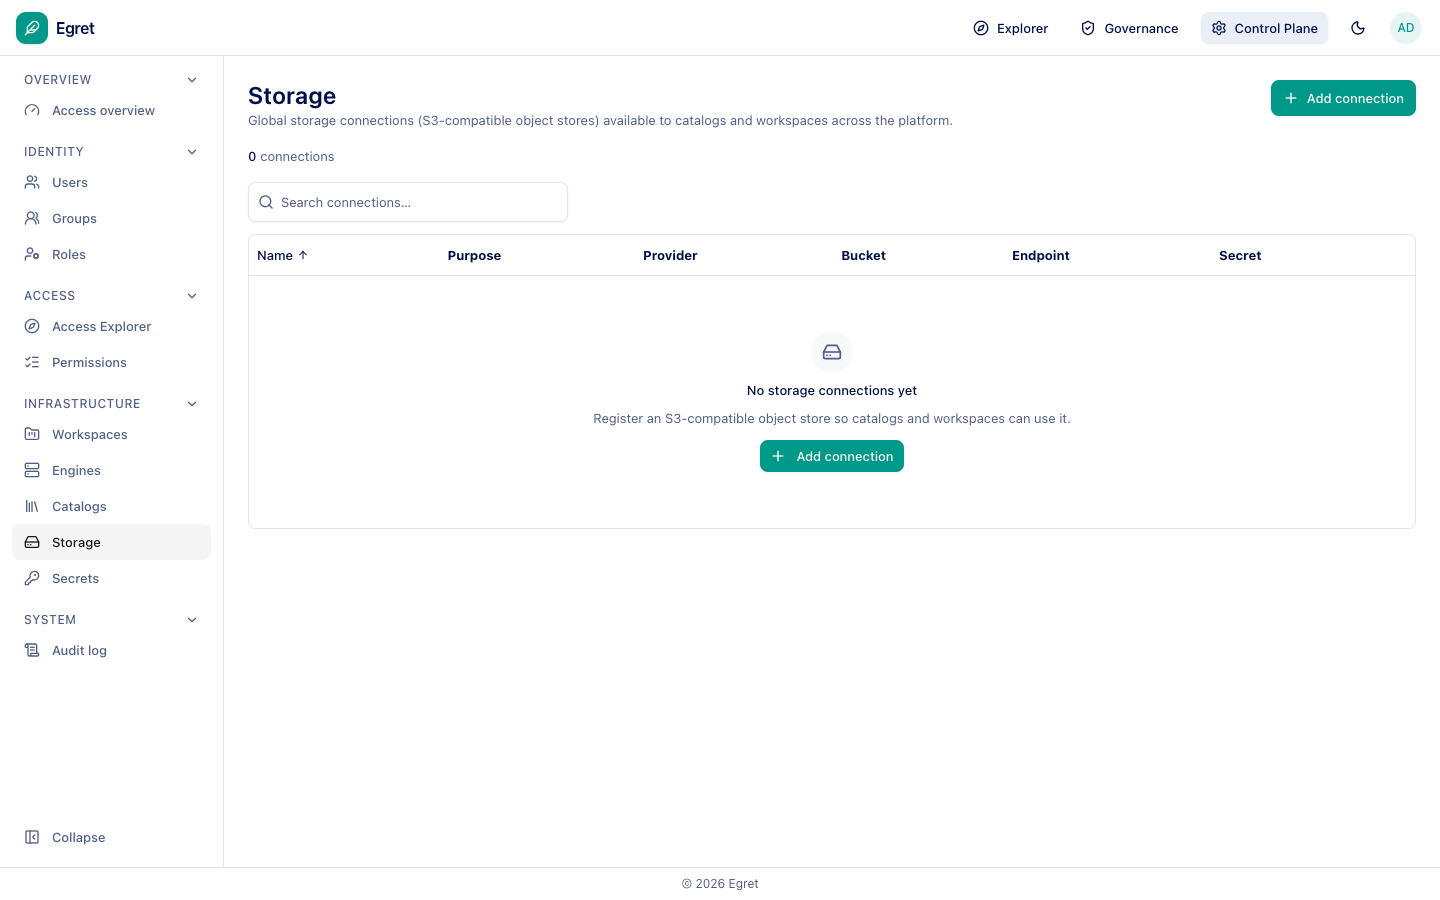
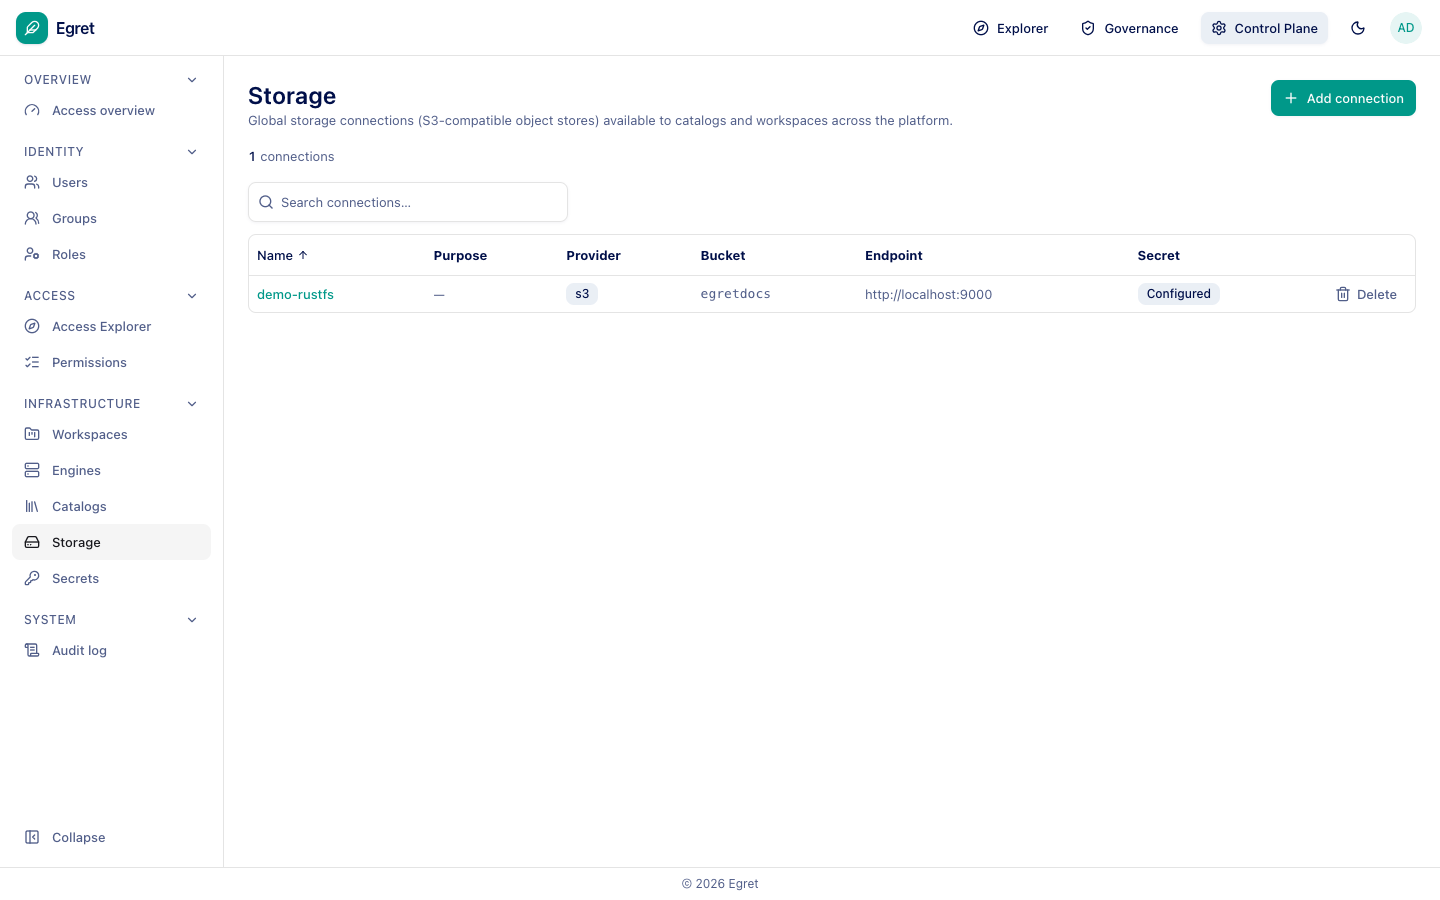
docs: Data governance, Control plane and Deploy & operate pages (batch 3); more known issues

diff --git a/platform/known-issues.md b/platform/known-issues.md
@@ -26,3 +26,12 @@ and missing pieces. Entries are **recorded, not fixed**; they feed the product r
 | KI-012 | Workspace settings | UX | S3 | The Notifications page does not follow the layout of the other settings tabs: the heading is offset, and Encryption is an unstyled native select. |
 | KI-013 | Workflows | UX | S1 | With the default config the workflow worker is **off**. *Run* succeeds and the execution sits in *Running* indefinitely (one waited 53 s until the worker was enabled). Only the Triggers page warns; Run, Flow and Executions give no hint. |
 | KI-014 | Workflows | UX | S3 | A new flow shows *Version —* in its header, and *Run* says it runs "the saved draft"; it is unclear what a version is until **Create version** is pressed. |
+| KI-015 | Governance | Missing | S2 | **Data Lineage** is in the sidebar but is a placeholder page with no functionality. |
+| KI-016 | Control Plane | Defect | S3 | `/control-plane/config` renders a completely blank page inside the shell. |
+| KI-017 | Audit log | UX | S2 | Every page view writes `*:read allow` rows, so the audit log is dominated by routine reads and hides grant changes. Offer a default filter or separate reads from changes. |
+| KI-018 | Access overview | UX | S3 | *Recent changes* identifies the actor by an id prefix (`by 6d60b4c4`) instead of a name. |
+| KI-019 | Roles | Consistency | S3 | Control Plane → Roles lists four workspace roles (including `data_api_invoker`); Workspace settings → Roles & permissions lists three. Verify whether the fourth is hidden on purpose. |
+| KI-020 | People & groups | UX | S3 | Every user shows *No username yet*, even users who signed in through SSO. |
+| KI-021 | Control Plane | Defect? | S3 | verify: a group (`platform-admins`) mapped from the identity provider gives its member no platform role (Users shows no role for `admin-sso`). Check whether group-to-role mapping is expected to be configured separately. |
+| KI-022 | Engines | Limitation | S2 | Engine provisioning (**Add engine**) needs Kubernetes. On a Docker-only setup the only way to attach an engine is **Register external engine**, and the UI does not say so. |
+

diff --git a/platform/control-plane/access-control.md b/platform/control-plane/access-control.md
@@ -4,8 +4,33 @@ sidebar_position: 6
 
 # Access control
 
-Platform roles and who can do what.
+Platform administration of identity and permissions lives under **Overview**, **Identity** and **Access** in the Control Plane sidebar.
 
-:::note Draft
-This page is a skeleton and will be written against a running instance, with screenshots.
-:::
+## Access overview
+
+![Access overview](/img/platform/control-plane-access-overview.png)
+
+Who can access what, through which layer, plus the posture issues worth your attention (for example *roles with no assignees* and the share of users who are platform admins). **How access works** summarises the layers:
+
+1. **Identity**: users and groups, synced from OIDC.
+2. **Roles & permissions**: RBAC, which actions each role grants.
+3. **Object grants**: per-object access (Cedar), who can open a dataset, chart or dashboard.
+4. **Data plane**: column masking and row filters by tag (Ranger), enforced in the query engine.
+
+## Users, groups and roles
+
+![Users](/img/platform/control-plane-users.png)
+
+**Users** lists accounts with their provider (*local* or *oidc*), status, roles and group count. **Groups** lists groups synced from your identity provider. **Roles**:
+
+![Roles](/img/platform/control-plane-roles.png)
+
+*Platform roles* apply across all of Egret; *workspace roles* apply inside one workspace and are assigned per workspace on its Members page. Built-in roles are `platform_admin`, `data_steward`, `ws_admin`, `ws_editor` and `ws_viewer`; **New role** and **Tree view** are available.
+
+## Access Explorer and Permissions
+
+![Access Explorer](/img/platform/control-plane-access-explorer.png)
+
+The **Access Explorer** answers two questions with full provenance: what can this user or group reach, and who can reach this object. **Permissions** is the full catalog of platform permissions (64 across 18 areas) and how many roles each is granted to; change what a role grants on the Roles page.
+
+![Permissions](/img/platform/control-plane-permissions.png)

diff --git a/platform/control-plane/query-engines.md b/platform/control-plane/query-engines.md
@@ -4,8 +4,25 @@ sidebar_position: 2
 
 # Query engines
 
-Provision and register engines.
+**Control Plane → Engines** lists the query engines of the platform in tabs for **Trino**, **StarRocks** and **RisingWave** (RisingWave arrives in a later phase).
 
-:::note Draft
-This page is a skeleton and will be written against a running instance, with screenshots.
-:::
+![Engines](/img/platform/control-plane-engines.png)
+
+There are two ways to add an engine:
+
+- **Add engine** provisions a Trino or StarRocks cluster against a catalog warehouse and monitors its health. This needs a Kubernetes cluster; without one the platform logs *kubernetes unavailable; engine provisioning disabled*.
+- **Register external engine** records a cluster you run yourself.
+
+## Register an external engine
+
+![Register external engine](/img/platform/control-plane-engine-register.png)
+
+Egret does not provision, restart or monitor a registered engine. It holds the record so that a policy profile can be bound to the engine and you can read the Ranger plugin configuration to install on it.
+
+| Field | Meaning |
+|---|---|
+| **Name** | Lower-case letters, digits and hyphens, up to 63 characters. |
+| **Engine type** | Trino or StarRocks. |
+| **Host**, **Port** | A host name or IP address (no scheme, port or path) and the HTTP port. |
+| **Plugin version** | The Ranger plugin version. Egret proves migrations and explains access only for Trino with plugin 2.5.0 or 2.8.0 and StarRocks with 2.8.0 or 2.9.0; another version is recorded as you declare it and those features refuse. |
+| **Policy profile** | Bind a profile now, or later from the engine's Settings tab. A profile can belong to one engine. |

diff --git a/platform/deploy-operate/configuration.md b/platform/deploy-operate/configuration.md
@@ -4,8 +4,18 @@ sidebar_position: 3
 
 # Configuration
 
-How configuration is loaded and the keys you will change first.
+Configuration comes from `egret.toml` and from environment variables named `EGRET_<SECTION>__<KEY>` (two underscores between section and key). These are the ones you meet first:
 
-:::note Draft
-This page is a skeleton and will be written against a running instance, with screenshots.
-:::
+| Setting | Meaning |
+|---|---|
+| `EGRET_DATABASE__URL` | PostgreSQL connection string. |
+| `EGRET_SERVER__PORT` | HTTP port (default 8080). |
+| `[secrets] master_key` | Base64 key (at least 32 bytes) that encrypts stored credentials. Without it, registering a database *with a secret* fails. |
+| `[storage]` | Object-store `bucket`, `access_key`, `secret_key`. |
+| `[catalog]` `enabled`, `auth_token` | Enables the embedded Iceberg catalog. |
+| `EGRET_OIDC__ENABLED`, `ISSUER_URL`, `CLIENT_ID`, `CLIENT_SECRET`, `REDIRECT_URL`, `GROUPS_CLAIM` | Single sign-on. The local administrator stays as a *break-glass* login. |
+| `EGRET_SECURITY__SECRET_KEY` | Base64 key (at least 64 bytes) that encrypts the OIDC state cookie. **The value in `.env.example` is public; generate your own** (`head -c 64 /dev/urandom \| base64`). |
+| `EGRET_RANGER__ENABLED`, `AUTH_TOKEN` | Turns on Ranger policy administration. |
+| `EGRET_WORKFLOW__WORKER_ENABLED`, `SCHEDULER_ENABLED` | Workflow worker and trigger scheduler. **Both default to off.** |
+
+The full list is in the [configuration keys reference](../reference/configuration-keys).

diff --git a/platform/deploy-operate/troubleshooting.md b/platform/deploy-operate/troubleshooting.md
@@ -4,8 +4,11 @@ sidebar_position: 5
 
 # Troubleshooting
 
-Common failures and how to diagnose them.
-
-:::note Draft
-This page is a skeleton and will be written against a running instance, with screenshots.
-:::
+| Symptom | Cause and fix |
+|---|---|
+| *502 Bad Gateway* when creating a dataset or testing a database on Trino | Trino answered HTTP 406. Egret sends `X-Forwarded-Proto`; set `http-server.process-forwarded=true` on Trino. |
+| *429 Too Many Requests* at sign-in | The local sign-in limit is 5 attempts per 5 minutes per address and email; rejected attempts keep the window open. Wait, or restart the server (the limiter is in memory) in a throwaway instance. |
+| A workflow execution stays in *Running* | The workflow worker is off by default. Set `EGRET_WORKFLOW__WORKER_ENABLED=true` (and `EGRET_WORKFLOW__SCHEDULER_ENABLED=true` for triggers). |
+| *kubernetes unavailable; engine provisioning disabled* in the log | There is no Kubernetes cluster. **Register external engine** still works; **Add engine** does not. |
+| Registering a database with a secret fails | `[secrets] master_key` is not set. |
+| `/control-plane/config` renders a blank page | Known issue; the page is not linked from the UI. |

diff --git a/platform/deploy-operate/local.md b/platform/deploy-operate/local.md
@@ -4,8 +4,19 @@ sidebar_position: 1
 
 # Local (Docker Compose)
 
-Run the platform and its dependencies on one machine.
+`just up` starts the development dependencies from `deploy/docker-compose.dev.yml`: PostgreSQL, an S3-compatible object store (RustFS), Valkey, Trino, StarRocks and Keycloak.
 
-:::note Draft
-This page is a skeleton and will be written against a running instance, with screenshots.
+```bash
+cp .env.example .env
+just up
+just serve
+```
+
+`just serve` runs migrations and starts the platform on port 8080; the frontend dev server (`npm run dev` in `frontend/`) proxies `/api` to it.
+
+:::tip Isolated instance
+To try things without touching an existing dev database, use a separate PostgreSQL database and storage bucket
+(`EGRET_DATABASE__URL`, and `bucket` under `[storage]` in `egret.toml`), and a separate port.
 :::
+
+Demo data: `just seed-demo` provisions a demo Iceberg catalog with tables, roles and clients against a running server.

diff --git a/platform/data-governance/overview.md b/platform/data-governance/overview.md
@@ -4,8 +4,12 @@ sidebar_position: 1
 
 # Overview
 
-Posture, coverage and what needs attention.
+**Governance → Overview** shows what needs attention and what changed recently.
 
-:::note Draft
-This page is a skeleton and will be written against a running instance, with screenshots.
-:::
+![Governance overview](/img/platform/governance-overview.png)
+
+The header counts **catalogs**, **egret grants**, **egret rules** and **classifications**. **Needs attention** lists problems worth fixing, and **Recent changes** lists governance changes as they are recorded. Recording began when this version was installed, so earlier changes are not listed.
+
+The overview does not check views that may expose classified data through `DEFINER`, or classification coverage; see [Classifications](./classifications).
+
+The Governance sidebar groups its pages into **Data**, **People & groups**, **Classification**, **Lineage** and **Engine & policy**.

diff --git a/platform/data-governance/engines-and-policy.md b/platform/data-governance/engines-and-policy.md
@@ -4,8 +4,10 @@ sidebar_position: 4
 
 # Engines & policy
 
-Policy enforcement per engine.
+**Governance → Engine & policy** is where policy reaches the query engines. Each engine downloads one **policy profile**; open an engine to grant engine permissions and see its policies.
 
-:::note Draft
-This page is a skeleton and will be written against a running instance, with screenshots.
-:::
+![Engine and policy](/img/platform/governance-engines.png)
+
+The header counts **engines**, **profiles without an engine** and **hand-written policies**. **New profile** creates a policy profile. Engines themselves are created in [Control Plane → Engines](../control-plane/query-engines), where a registered engine can be bound to a profile.
+
+Egret acts as the Apache Ranger admin for the engines: the Ranger plugin on Trino or StarRocks downloads the profile and enforces it, including row filters and column masks.

diff --git a/platform/control-plane/catalogs.md b/platform/control-plane/catalogs.md
@@ -4,8 +4,10 @@ sidebar_position: 5
 
 # Catalogs
 
-The Iceberg REST catalog and warehouses.
+Every catalog the platform knows about: egret warehouses and external metastores alike. Attach a catalog to an engine to make it queryable, and assign it to a workspace to let that workspace see it.
 
-:::note Draft
-This page is a skeleton and will be written against a running instance, with screenshots.
-:::
+![Catalogs](/img/platform/control-plane-catalogs.png)
+
+The header counts catalogs, those attached to an engine and those needing attention. The table shows **Kind** (for example *egret warehouse*), the number of **Engines** it is attached to, the **Workspaces** that can see it and its **Status**. **New catalog** creates one.
+
+An *egret warehouse* is an Iceberg REST catalog embedded in the platform and stored on one of the [storage connections](./storage).

diff --git a/platform/data-governance/data.md b/platform/data-governance/data.md
@@ -4,8 +4,10 @@ sidebar_position: 2
 
 # Data
 
-Access and policies on datasets and tables.
+**Governance → Data** is where you look at one dataset's access: who can read it, its tags and its rules.
 
-:::note Draft
-This page is a skeleton and will be written against a running instance, with screenshots.
-:::
+![Governance data](/img/platform/governance-data.png)
+
+The left tree lists the **catalogs** the platform knows about (for example an Iceberg catalog). Expand a catalog to its schemas and tables, filter the loaded items, or type a path such as `catalog.schema.table` in **Go to** to open a table directly. Opening a catalog, schema or table shows who can read it, its tags and its rules.
+
+An administrator adds catalogs under [Control Plane → Catalogs](../control-plane/catalogs).

diff --git a/platform/control-plane/workspaces.md b/platform/control-plane/workspaces.md
@@ -4,8 +4,10 @@ sidebar_position: 1
 
 # Workspaces
 
-Create and administer workspaces.
+**Control Plane → Workspaces** manages workspaces. Every workspace is an independent data platform with its own members and resources.
 
-:::note Draft
-This page is a skeleton and will be written against a running instance, with screenshots.
-:::
+![Workspaces](/img/platform/control-plane-workspaces.png)
+
+The header counts total, active and archived workspaces. The table shows each workspace's name and slug, **Owner**, **Created** date and **Status**; filter by status or search. **New workspace** creates one, and the **⋯** menu renames or archives it. Open a workspace to manage it.
+
+Renaming or deleting happens here, not in the workspace's own [General](../workspace-settings/general) page.

diff --git a/platform/data-governance/people-and-groups.md b/platform/data-governance/people-and-groups.md
@@ -4,8 +4,10 @@ sidebar_position: 3
 
 # People & groups
 
-Users, groups and roles.
+**Governance → People & groups** shows users, groups and roles, and the egret grants and rules that reach each one.
 
-:::note Draft
-This page is a skeleton and will be written against a running instance, with screenshots.
-:::
+![People and groups](/img/platform/governance-people.png)
+
+Four tabs: **Users**, **Groups**, **Roles** and **Unmatched names**. The Users tab lists people with their email and username, a search box and a **Show service accounts** switch. People appear here once they have signed in through SSO, together with the groups the identity provider reports.
+
+The shield button (top right) checks a person's access.
